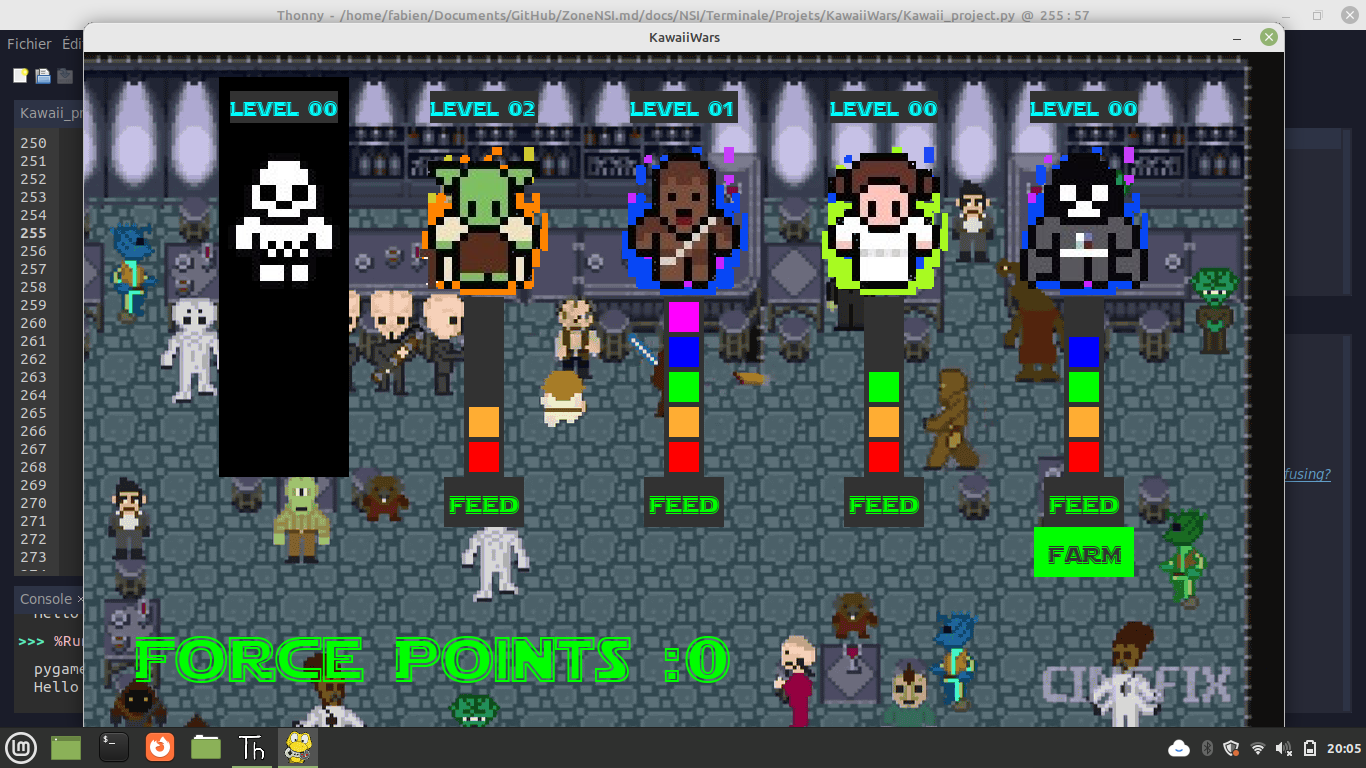
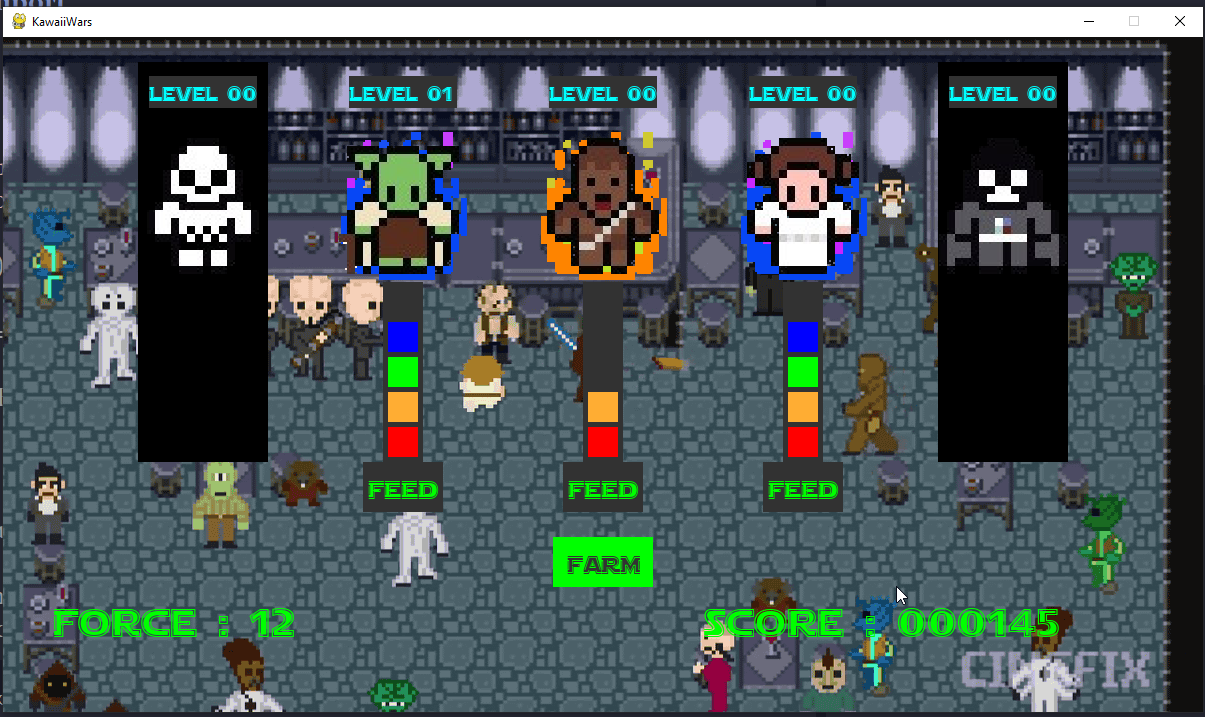
MAJ ClickersWars

diff --git a/docs/NSI/Terminale/Projets/ClickersWars/ClickerWars_project.py b/docs/NSI/Terminale/Projets/ClickersWars/ClickerWars_project.py
@@ -1,6 +1,6 @@
 import pygame as pg
 from pygame.locals import *
-from random import randint
+
 
 #CURSOR_LEVEL= 5
 RED = (255, 0, 0)
@@ -11,7 +11,7 @@ PURPLE = (255, 0, 255)
 BLUE = (0, 0, 255)
 CURSOR_COLOURS = [RED, ORANGE, GREEN, BLUE, PURPLE ]
 pg.init()
-STARFONT = pg.font.Font(pg.font.match_font('starjedioutline'), 64)
+STARFONT = pg.font.Font(pg.font.match_font('starjedioutline'), 40)
 
 
 class ForceMonster :
@@ -141,7 +141,7 @@ class ForceButton :
     def __init__(self) :
         self. image = pg.Surface((100,50))
         self.rect = self.image.fill((0,255,0))
-        self.rect.center=(1000, 500)
+        self.rect.center=(600, 525)
         self.text = pg.font.Font(pg.font.match_font('starjedioutline'), 25).render('FARM', 1, (50,50,50))
         self.text_rect = self.text.get_rect()
         self.text_rect.center = self.rect.center
@@ -184,7 +184,7 @@ class ForceCounter :
     def __init__(self) :
         self.value = 0
         self.growth_rate = 1
-        self.text = f"Force Points : {self.value}"
+        self.text = f"Force : {self.value}"
         self.surface = STARFONT.render(self.text, 1, (0, 255, 0))
         self.rect = self.surface.get_rect()
         self.rect.topleft = (50,550)
@@ -194,7 +194,7 @@ class ForceCounter :
         
     def update_text(self) :
         #self.value +=self.growth_rate
-        self.text = f"Force Points :{self.value}"
+        self.text = f"Force : {self.value}"
         self.surface = STARFONT.render(self.text, 1, (0, 255, 0))
         
     def reinit(self, value) :
@@ -214,7 +214,36 @@ class ForceCounter :
     def set_growth_rate(self, value) :
         self.growth_rate = value
     
-
+class ScoreCounter :
+    def __init__(self) :
+        self.value = 0
+        self.text = f"Score : {self.value:06d}"
+        self.surface = STARFONT.render(self.text, 1, (0, 255, 0))
+        self.rect = self.surface.get_rect()
+        self.rect.topleft = (700,550)
+        
+    def show(self, frame_to_blit) :
+        frame_to_blit.blit(self.surface, self.rect)
+        
+    def update_text(self) :
+        self.text = f"Score : {self.value:06d}"
+        self.surface = STARFONT.render(self.text, 1, (0, 255, 0))
+        
+    def reinit(self, value) :
+        self.valeur = value
+        self.update()
+        
+    def get_value(self) :
+        return self.value
+    
+    def set_value(self, value) :
+        self.value = value
+        
+    def update_value(self, value) :
+        self.value += value
+        self.update_text()
+        
+   
 
 class Flamme :
     def __init__(self, center, level=2) :
@@ -250,6 +279,7 @@ def main() :
     game_playing = True
     force_button = ForceButton()
     force_counter = ForceCounter()
+    score_counter = ScoreCounter()
     
     monsters = [ForceMonster(1, "Troops.png" , force_max = 10),
                 ForceMonster(2, "Yoda.png", force_buff=5 ),
@@ -274,6 +304,7 @@ def main() :
                 mouse_position = pg.mouse.get_pos()
                 if force_button.rect.collidepoint(mouse_position) :
                     force_counter.update_value()
+                    score_counter.update_value(force_counter.growth_rate)
                 for monster in monsters :
                     if monster.is_alive and monster.collidepoint(mouse_position) :
                         force_counter.set_value(monster.feed_button.feed(force_counter.get_value()))
@@ -292,7 +323,7 @@ def main() :
         main_frame.blit(background, (0,0))
         for monster in monsters :
             monster.show(main_frame, blit)
-        
+        score_counter.show(main_frame)
         force_counter.show(main_frame)
         force_button.show(main_frame)
         pg.display.update()
